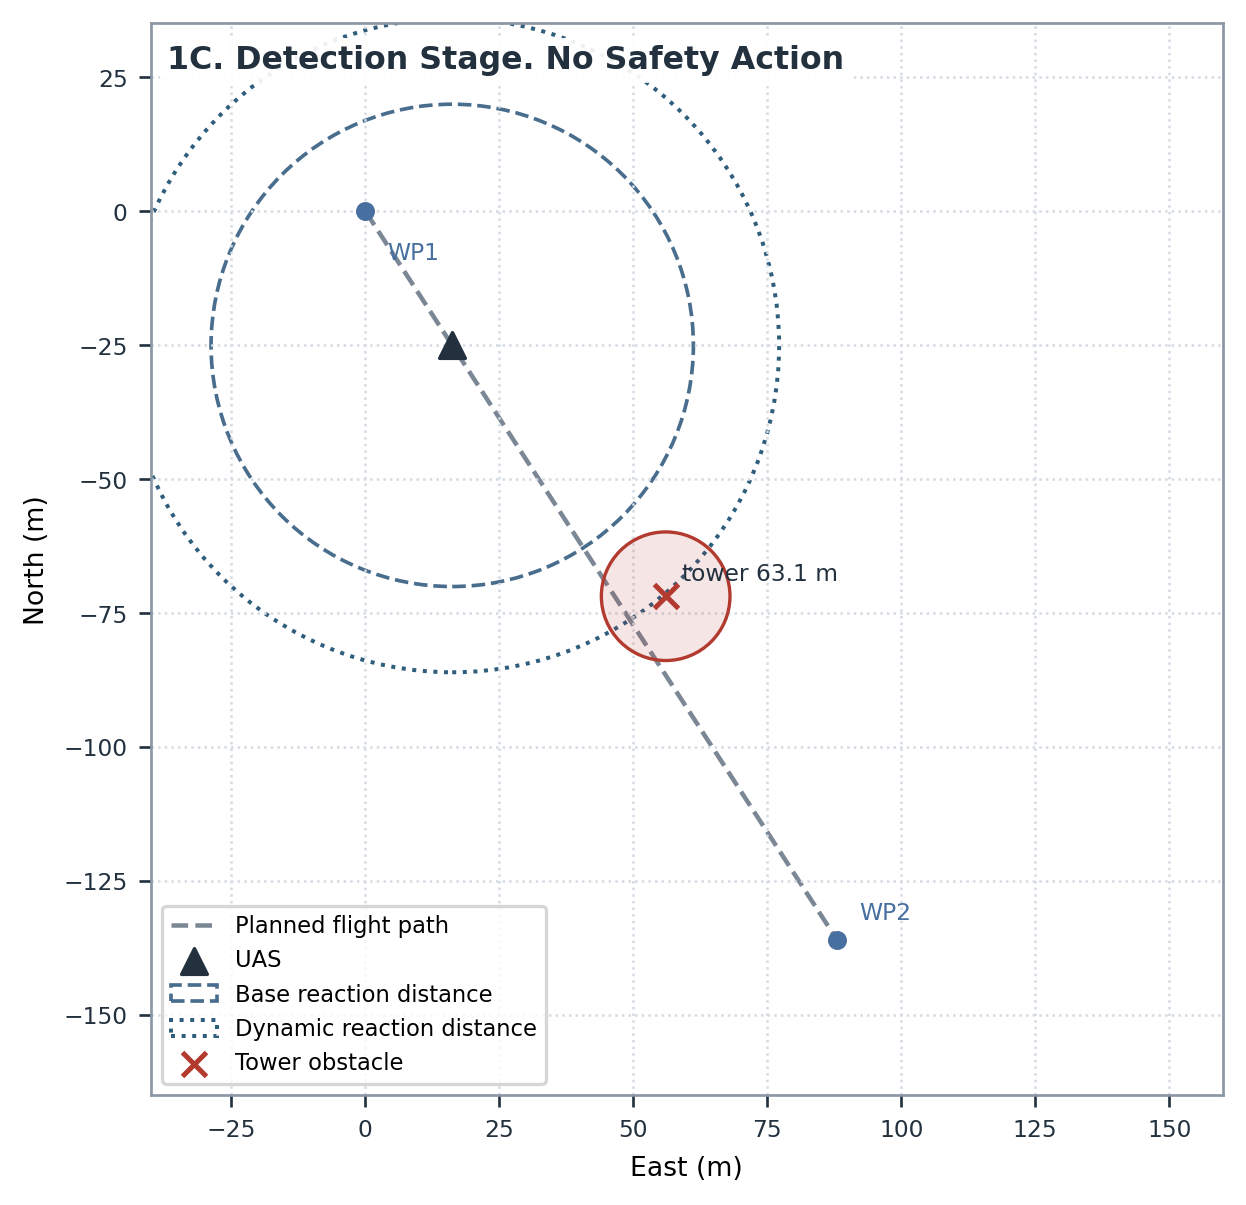
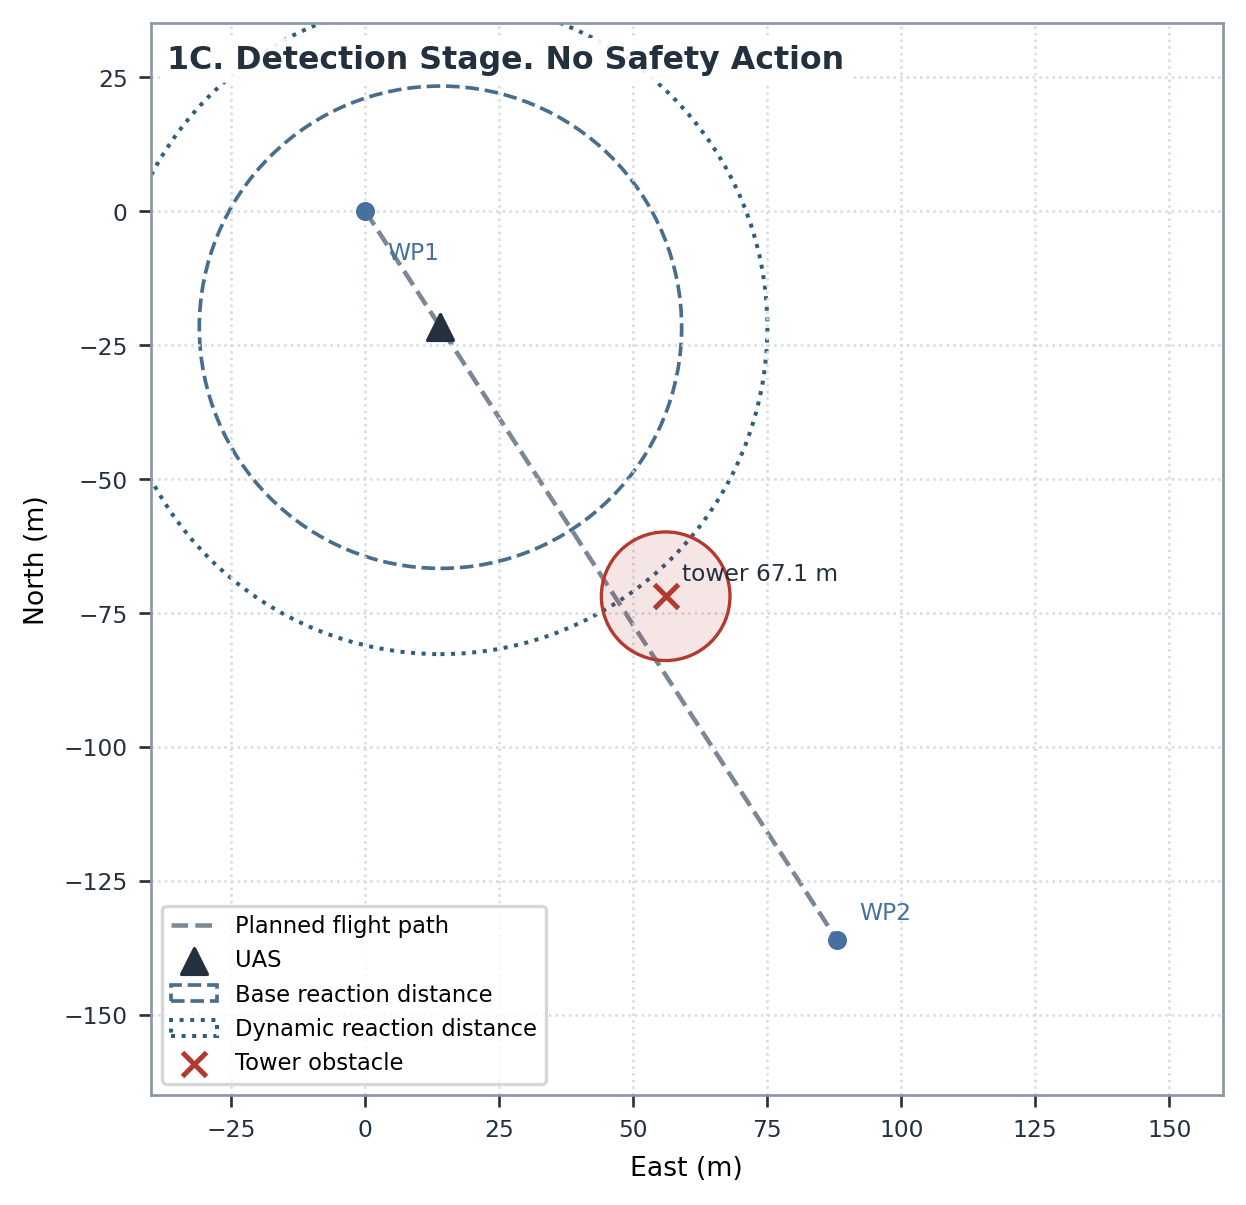
Polish figure 1 after visual audit

diff --git a/figuras_paper_unreal_generadas/generate_paper_figures.py b/figuras_paper_unreal_generadas/generate_paper_figures.py
@@ -53,6 +53,7 @@ LABEL_TOWER = "Tower obstacle"
 LABEL_DYNAMIC_REACTION = "Dynamic reaction distance"
 LABEL_BASE_REACTION = "Base reaction distance"
 LABEL_PELOTON_POSITIONS = "Peloton positions over time"
+LABEL_LOCAL_GRID = "Local A* occupancy grid"
 
 FIG1_XLIM = (-40.0, 160.0)
 FIG1_YLIM = (-165.0, 35.0)
@@ -358,8 +359,10 @@ def draw_grid(
     half = GRID_RADIUS_CELLS * CELL_SIZE_M
     for v in np.arange(-half, half + CELL_SIZE_M, CELL_SIZE_M):
         is_major = abs((v / CELL_SIZE_M) % 10) < 1e-6
-        ax.axvline(ox + v, color="#dfe5eb", linewidth=0.45 if is_major else 0.25, alpha=0.45 if is_major else 0.18, zorder=0)
-        ax.axhline(oy + v, color="#dfe5eb", linewidth=0.45 if is_major else 0.25, alpha=0.45 if is_major else 0.18, zorder=0)
+        ax.axvline(ox + v, color="#b9c3cf", linewidth=0.58 if is_major else 0.36, alpha=0.55 if is_major else 0.34, zorder=0)
+        ax.axhline(oy + v, color="#b9c3cf", linewidth=0.58 if is_major else 0.36, alpha=0.55 if is_major else 0.34, zorder=0)
+    if route_xy or occupied:
+        ax.plot([], [], color="#9aa6b2", linewidth=0.8, alpha=0.8, label=LABEL_LOCAL_GRID)
     for cx, cy in sorted(occupied):
         ax.add_patch(
             patches.Rectangle(
@@ -408,8 +411,8 @@ def prepare_static_context() -> dict:
         and event.get("decision_reason") == "distance_above_reaction"
         and float(event.get("ts", 0.0)) < float(evasion_evt["ts"])
     ]
-    detect_evt = no_action_events[-2] if len(no_action_events) >= 2 else nearest_event(brain, STATIC_DETECTION_TS, "decision_snapshot", "tower")
-    detection_detail_evt = max(no_action_events, key=lambda event: float(event["ts"])) if no_action_events else detect_evt
+    detect_evt = no_action_events[-4] if len(no_action_events) >= 4 else nearest_event(brain, STATIC_DETECTION_TS, "decision_snapshot", "tower")
+    detection_detail_evt = no_action_events[-2] if len(no_action_events) >= 2 else detect_evt
 
     det_row = nearest_row(traj, float(detect_evt["ts"]))
     det_detail_row = nearest_row(traj, float(detection_detail_evt["ts"]))
@@ -565,10 +568,10 @@ def build_static_figure() -> dict:
 
     def draw_summary(ax) -> None:
         plot_wp1_wp2_segment(ax, mission, d["lat_ref"], d["lon_ref"])
-        ax.plot(traj["east"], traj["north"], color=FLOWN, linewidth=1.0, alpha=0.75, label=LABEL_ACTUAL_TRAJECTORY)
+        ax.plot(traj["east"], traj["north"], color=FLOWN, linewidth=1.45, alpha=0.85, label=LABEL_ACTUAL_TRAJECTORY)
         tower_window = traj[(traj["ts"] >= float(evasion_evt["ts"]) - 2) & (traj["ts"] <= float(d["completion_evt"]["ts"]) + 2)]
         if len(tower_window):
-            ax.plot(tower_window["east"], tower_window["north"], color=EVASION, linewidth=2.0, label=LABEL_ACTIVE_EVASION)
+            ax.plot(tower_window["east"], tower_window["north"], color=EVASION, linewidth=1.55, alpha=0.78, label=LABEL_ACTIVE_EVASION)
         draw_obstacles(ax, eva_obs, TOWER, radius=True, label=LABEL_TOWER)
         draw_label(ax, "1F", "Final Stage. Route Summary")
         style_ax(ax)
@@ -734,7 +737,7 @@ def main() -> None:
         "- Orden activo de lectura: `1A` navegacion nominal, `1B` deteccion sin accion cerca del umbral, `1C` ultima deteccion sin accion con radios, `1D` inicio de evasion A*, `1E` evasion en curso, `1F` resumen final de ruta.",
         "- Decision actual: los seis paneles de Figura 1 deben ser cenitales/top-down y compartir ejes. El `Local A* occupancy grid` no es absoluto ni permanente; se muestra solo en `1D` y `1E`, cuando el planner ya ha discretizado el vecindario local relativo al UAS.",
         "- Los seis paneles usan el mismo encuadre fijo activo: eje X `[-40, 160]` m y eje Y `[-165, 35]` m, con las mismas etiquetas `East (m)` y `North (m)`. Es un encuadre cuadrado `1:1` de 200 m x 200 m centrado en el tramo WP1->WP2, con mas aire por encima de WP1 y menos espacio muerto bajo WP2.",
-        "- `1B` usa una deteccion sin accion a `67.1 m`; `1C` usa la ultima deteccion sin accion a `63.1 m`, justo antes de generar la evasion al cruzar `reaction_distance_eval_m=61 m`.",
+        "- `1B` usa una deteccion sin accion a `75.1 m`; `1C` usa una deteccion sin accion a `67.1 m`, todavia fuera de `reaction_distance_eval_m=61 m`.",
         "- Validacion del run: `accepted_types=[\"tower\"]`, `clean_detection_count=9`, `valid_plan_count=1`, `valid_completion_count=1`, `failure_count=0`, evasion activa de progreso `0.2085` a `0.9412` antes de WP2.",
         "",
         "## Terminos usados en leyendas",

diff --git a/figuras_paper_unreal_generadas/generate_figure1_separate_panels.py b/figuras_paper_unreal_generadas/generate_figure1_separate_panels.py
@@ -135,10 +135,10 @@ def main() -> None:
 
     fig, ax = plt.subplots(figsize=g.FIG1_PANEL_FIGSIZE)
     _base_panel(ax, d)
-    ax.plot(traj["east"], traj["north"], color=g.FLOWN, linewidth=1.0, alpha=0.75, label=g.LABEL_ACTUAL_TRAJECTORY)
+    ax.plot(traj["east"], traj["north"], color=g.FLOWN, linewidth=1.45, alpha=0.85, label=g.LABEL_ACTUAL_TRAJECTORY)
     tower_window = traj[(traj["ts"] >= float(d["evasion_evt"]["ts"]) - 2) & (traj["ts"] <= float(d["completion_evt"]["ts"]) + 2)]
     if len(tower_window):
-        ax.plot(tower_window["east"], tower_window["north"], color=g.EVASION, linewidth=2.0, label=g.LABEL_ACTIVE_EVASION)
+        ax.plot(tower_window["east"], tower_window["north"], color=g.EVASION, linewidth=1.55, alpha=0.78, label=g.LABEL_ACTIVE_EVASION)
     g.draw_obstacles(ax, d["eva_obs"], g.TOWER, radius=True, label=g.LABEL_TOWER)
     g.draw_label(ax, "1F", "Final Stage. Route Summary")
     g.style_ax(ax)

diff --git a/figuras_paper_unreal_generadas/README.md b/figuras_paper_unreal_generadas/README.md
@@ -21,7 +21,7 @@ Esta carpeta contiene las figuras compuestas pedidas en la conversacion.
 - Orden activo de lectura: `1A` navegacion nominal, `1B` deteccion sin accion cerca del umbral, `1C` ultima deteccion sin accion con radios, `1D` inicio de evasion A*, `1E` evasion en curso, `1F` resumen final de ruta.
 - Decision actual: los seis paneles de Figura 1 deben ser cenitales/top-down y compartir ejes. El `Local A* occupancy grid` no es absoluto ni permanente; se muestra solo en `1D` y `1E`, cuando el planner ya ha discretizado el vecindario local relativo al UAS.
 - Los seis paneles usan el mismo encuadre fijo activo: eje X `[-40, 160]` m y eje Y `[-165, 35]` m, con las mismas etiquetas `East (m)` y `North (m)`. Es un encuadre cuadrado `1:1` de 200 m x 200 m centrado en el tramo WP1->WP2, con mas aire por encima de WP1 y menos espacio muerto bajo WP2.
-- `1B` usa una deteccion sin accion a `67.1 m`; `1C` usa la ultima deteccion sin accion a `63.1 m`, justo antes de generar la evasion al cruzar `reaction_distance_eval_m=61 m`.
+- `1B` usa una deteccion sin accion a `75.1 m`; `1C` usa una deteccion sin accion a `67.1 m`, todavia fuera de `reaction_distance_eval_m=61 m`.
 - Validacion del run: `accepted_types=["tower"]`, `clean_detection_count=9`, `valid_plan_count=1`, `valid_completion_count=1`, `failure_count=0`, evasion activa de progreso `0.2085` a `0.9412` antes de WP2.
 
 ## Terminos usados en leyendas

diff --git a/FIGURA_1_PAPER_UNREAL_ESPECIFICACION.md b/FIGURA_1_PAPER_UNREAL_ESPECIFICACION.md
@@ -67,8 +67,9 @@ Por tanto, la nueva Figura 1 parece compactar esas etapas en una unica figura mu
 - Validacion: `accepted_types=["tower"]`, `clean_detection_count=9`, `valid_plan_count=1`, `valid_completion_count=1`, `failure_count=0`.
 - Evasion activa: comienza en progreso `0.2085` del tramo WP1->WP2 y termina en `0.9412`, antes de llegar a WP2.
 - Evento de planificacion: `planner_obs_count=1`, por tanto la torre `vision:101` si fue incluida por el planner.
-- Panel `1B`: deteccion sin accion a `67.1 m`.
-- Panel `1C`: ultima deteccion sin accion a `63.1 m`, justo antes de generar evasion al cruzar `reaction_distance_eval_m = 61 m`.
+- Panel `1A`: ultimo estado real del run sin obstaculo activo; permanece cerca de WP1 porque no hay una muestra avanzada WP1->WP2 sin deteccion.
+- Panel `1B`: deteccion sin accion a `75.1 m`.
+- Panel `1C`: deteccion sin accion a `67.1 m`, todavia fuera de `reaction_distance_eval_m = 61 m`.
 - La torre se muestra en `1B` porque ya existe como obstaculo activo detectado (`obs_fresh=True`, `obs_count=1`). No estamos dibujando el rango fisico/sensorial de deteccion de YOLO; los circulos de `1C` son distancias de reaccion/control, no el alcance de la camara.
 
 ## Vocabulario de leyendas alineado con el paper
